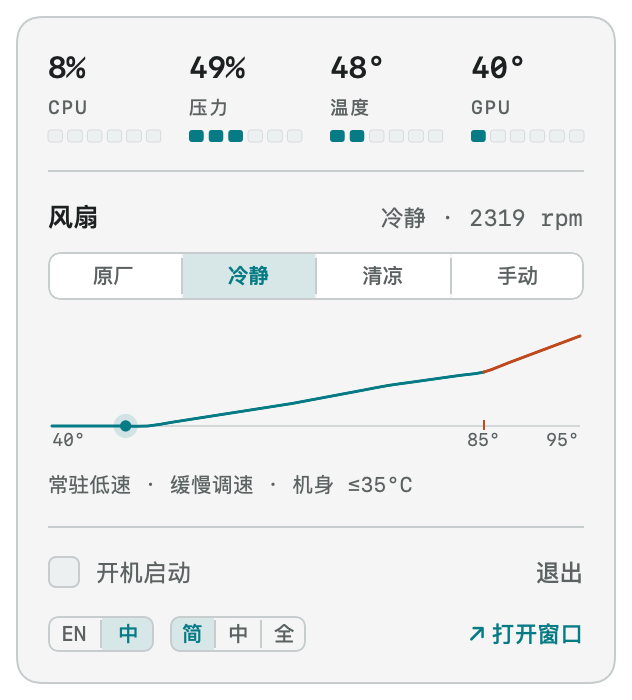
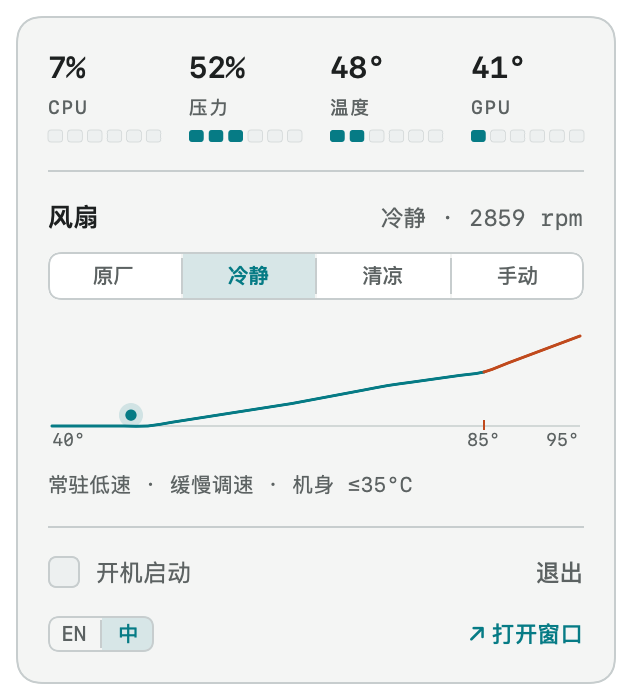
Refresh README screenshots and describe the menu bar settings

diff --git a/README.md b/README.md
@@ -58,7 +58,7 @@ A tiny native macOS menu bar app for two things: **seeing what your Mac is doing
   - On battery: Manual hands back to macOS when you unplug; Cool/Chill pause while on battery (you can still select them) and resume when you plug in.
   - Quitting or killing the app hands the fan back to macOS. Fanless Macs (e.g. MacBook Air) get monitoring only.
 - **Glanceable first, details on demand**:
-  - Menu bar readout in **S / M / L** widths (notch-friendly, fixed width so it never jitters).
+  - Menu bar readout you pick yourself: any mix of CPU, memory, CPU/GPU temperature, fan speed, power and fan mode, with S / M / L presets and a live preview in the window. Fixed width so it never jitters, with a hint when it gets wide enough to hide behind the notch.
   - Click for a popover; right-click or `↗` for a pinnable window with **5-minute temperature / fan / throttling history**, **GPU busy %** and **whole-system power (W)**.
   - **Heat source**: hidden while the Mac is idle; when it's working, shows the busiest process, expandable to the top 3 with switch to / quit / force quit.
 - **Light**: samples every 2 s and only does the expensive work when it matters (no process scan while idle, SMC key lookups cached, HID sensors read only as a fallback). About 1–2% of one core with the window open.
@@ -137,13 +137,14 @@ Sources/
 ├── mm-smc-helper/           Root helper CLI: status / auto / set / ratio
 └── CoolCurve/               Menu bar app and main window
     ├── main.swift           Status item, popover and window lifecycle
+    ├── MenuBarReadout.swift Menu bar items, text formatting and fixed width
     ├── AppState.swift       Sampling loop, fan modes, safety nets, preferences
     ├── L10n.swift           English/Chinese strings
     ├── Snapshot.swift       `--snapshot`: renders the README images
     ├── Services/            FanCurveControllers (Cool/Chill profiles), FanControlService,
     │                        SystemMonitorService, ProcessSampler
     └── Views/               MenuBarPopoverView, MainWindowView, Components,
-                             FanCurveChart, MmDesignSystem
+                             FanCurveChart, MenuBarSettingsSection, MmDesignSystem
 scripts/
 ├── build_app.sh             Native build that produces CoolCurve.app
 ├── generate_icon.swift      Generates the full-size AppIcon.icns

diff --git a/README.zh-CN.md b/README.zh-CN.md
@@ -58,7 +58,7 @@
   - 电池供电：手动档在拔电时交还系统；冷静/清凉在电池下暂停（可照常选择），接上电源自动恢复。
   - 退出或终止 App 时交还 macOS 原生温控；无风扇机型（如 MacBook Air）自动切换为纯监控模式。
 - **渐进式信息展示**：
-  - 菜单栏常驻读数，支持 **简 / 中 / 全** 三档宽度（适配刘海屏，固定宽度零抖动）。
+  - 菜单栏读数自由组合：CPU、内存、CPU/GPU 温度、风扇转速、功耗、风扇模式任意勾选，保留 简 / 中 / 全 快速预设，主窗口里实时预览；宽度固定零抖动，太宽时提示刘海屏可能挡住。
   - 左键弹窗快速查看与调节；右键或点 `↗` 打开可置顶主窗口，含 **近 5 分钟温度/风扇/降频曲线**、**GPU 使用率**与 **整机实时功耗（W）**。
   - **可交互发热源**：机器空闲时自动隐藏，发热时显示头号高耗进程，点击展开 Top 3，支持一键切换、退出或强退。
 - **轻量**：每 2 秒采样一次，只在需要时做耗时的事（闲置时不扫描进程、缓存 SMC 传感器信息、HID 传感器只作后备）。主窗口开着时约占单核 1–2%。
@@ -137,13 +137,14 @@ Sources/
 ├── mm-smc-helper/           root 辅助命令行：status / auto / set / ratio
 └── CoolCurve/               菜单栏与主窗口 App
     ├── main.swift           状态栏图标、弹窗与主窗口生命周期
+    ├── MenuBarReadout.swift 菜单栏显示项、文字格式与固定宽度
     ├── AppState.swift       采样循环、风扇策略、安全兜底、偏好持久化
     ├── L10n.swift           中/英文案表
     ├── Snapshot.swift       `--snapshot`：生成 README 图片
     ├── Services/            FanCurveControllers（冷静/清凉参数）、FanControlService、
     │                        SystemMonitorService、ProcessSampler
     └── Views/               MenuBarPopoverView、MainWindowView、Components、
-                             FanCurveChart、MmDesignSystem
+                             FanCurveChart、MenuBarSettingsSection、MmDesignSystem
 scripts/
 ├── build_app.sh             原生编译并生成 CoolCurve.app
 ├── generate_icon.swift      生成全尺寸 AppIcon.icns
